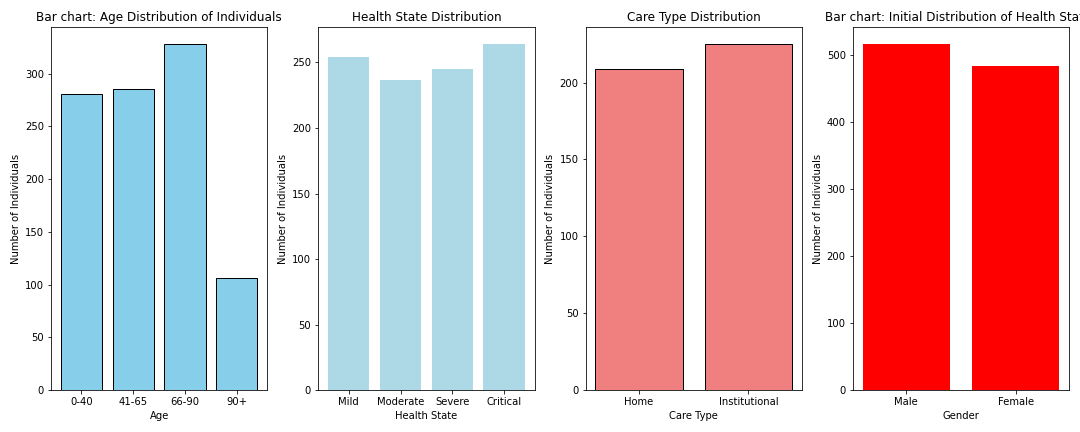
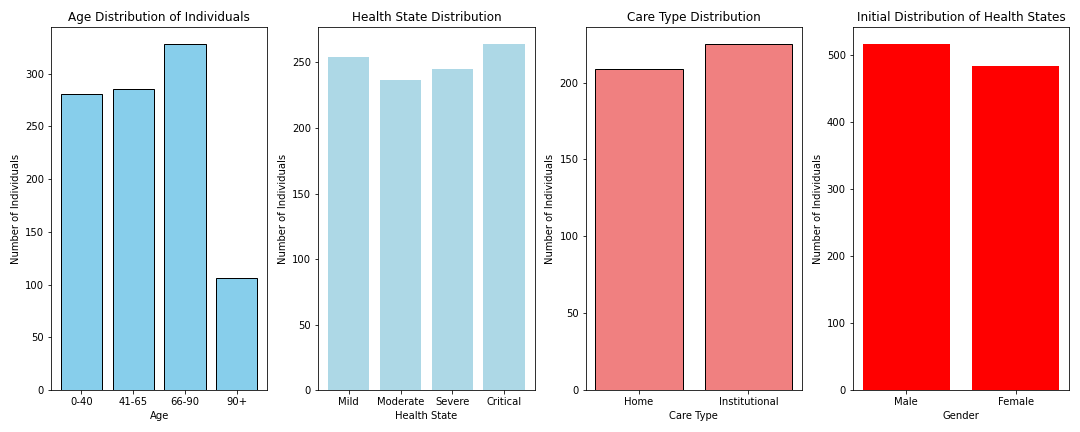
Added all the plots

Changed region(s): [[0.7639, 0.0301, 1.0, 0.0602], [0.0306, 0.0301, 0.275, 0.0602]]

diff --git a/Health Visualization.py b/Health Visualization.py
@@ -38,23 +38,28 @@ for i in range(NUM_INDIVIDUALS):
     individuals.append(individual) # Adds the individual’s dictionary to the individuals list.
 
 # Count initial health states
-health_state_counts = {state: 0 for state in HEALTH_STATES}
+health_state_counts = {state: 0 for state in HEALTH_STATES} #initializing a dictionary that counts from 0
 for individual in individuals:
     health_state_counts[individual['initial_health_state']] += 1
 
 ############################################################################
 ## Age summary statistics
-ages = [individual['age'] for individual in individuals]
+ages = [individual['age'] for individual in individuals] 
+#using 'list comprehension' to iterate through 'individuals' to create the 'ages' list
+#which contains the 'ages' of individuals in the individuals list 
 mean_age = sum(ages) / len(ages)
-median_age = sorted(ages)[len(ages) // 2]
+median_age = sorted(ages)[len(ages) // 2] #finds the middle index (using integer division)
 age_range = max(ages) - min(ages)
 std_dev_age = (sum((x - mean_age) ** 2 for x in ages) / len(ages)) ** 0.5
+#for each 'x' calculate the square difference from the 'mean_age' 
+#take the square root of the variance to get the 'standard deviation of age' 
 
 print(f"Mean Age: {mean_age}")
 print(f"Median Age: {median_age}")
 print(f"Age Range: {age_range}")
 print(f"Standard Deviation of Age: {std_dev_age}")
-
+print()
+print()
 #######################################################################################
 # Gender summary statistics
 gender_counts = {'Male': 0, 'Female': 0}
@@ -114,6 +119,7 @@ plt.show()
 
 ########################################################################################
 # Plotting the Initial Distribution of Health States
+
 ## line plot _Initial Distribution of Health States
 plt.plot(health_state_counts.keys(), health_state_counts.values())
 plt.xlabel('Health State')
@@ -123,7 +129,7 @@ plt.title('Line graph: Initial Distribution of Health States')
 plt.show()
 
 # bar chart_Initial Distribution of Health States
-plt.figure(figsize=(10, 5))
+#plt.figure(figsize=(10, 5))
 plt.bar(health_state_counts.keys(), health_state_counts.values()) 
 plt.xlabel('Health State')
 plt.ylabel('Number of Individuals')
@@ -141,8 +147,9 @@ plt.show()
 
 ################################################################################
 # Plotting the Distribution  of CARE TYPE
+
 # Count initial health states
-counts_care_type = {care: 0 for care in CARE_TYPES} #initializes a dictionary with keys 'Home' and 'Institution' starting at 0
+counts_care_type = {care: 0 for care in CARE_TYPES} #initializes a dictionary with keys 'Home' and 'Institution' counting from 0
 for individual in individuals:
     care_type = individual['care_type']
     if care_type is not None: #check if care_type != None
@@ -154,19 +161,20 @@ print(counts_care_type.values())
 plt.bar(counts_care_type.keys(), counts_care_type.values(), color='green', edgecolor='black')
 plt.xlabel('Care Type')
 plt.ylabel('Number of Individuals')
-plt.title('Care Type Distribution')
+plt.title('Bar Chart: Care Type Distribution')
 #plt.savefig('care_type_distr.png')
 plt.show()
 
 # Create a pie chart
 plt.pie(counts_care_type.values(), labels=counts_care_type.keys(), autopct='%1.1f%%', startangle=90, colors=['lightblue', 'lightgreen'])
-plt.title('Care Type Distribution - Pie Chart')
+plt.title('Pie Chart - Care Type Distribution')
 #plt.savefig('care_type_distribution_pie.png')
 plt.show()
 
 
 ########################################################################################
 # Plotting the Distribution of Gender
+
 # bar chart_ _Gender Distribution
 plt.bar(gender_counts.keys(), gender_counts.values(), color='lightgreen')
 plt.xlabel('Gender')
@@ -191,7 +199,7 @@ plt.subplot(1, 4, 1)
 plt.bar(age_categories.keys(), age_categories.values(), color='skyblue', edgecolor='black')
 plt.xlabel('Age')
 plt.ylabel('Number of Individuals')
-plt.title('Bar chart: Age Distribution of Individuals')
+plt.title('Age Distribution of Individuals')
 
 # Plotting Initial Health State distribution
 plt.subplot(1, 4, 2)
@@ -212,7 +220,7 @@ plt.subplot(1, 4, 4)
 plt.bar(gender_counts.keys(), gender_counts.values(), color='red')
 plt.xlabel('Gender')
 plt.ylabel('Number of Individuals')
-plt.title('Bar chart: Initial Distribution of Health States')
+plt.title('Initial Distribution of Health States')
 
 plt.tight_layout()  # Adjust subplots to fit into the figure area.
 plt.savefig('comparison_plot.png')
